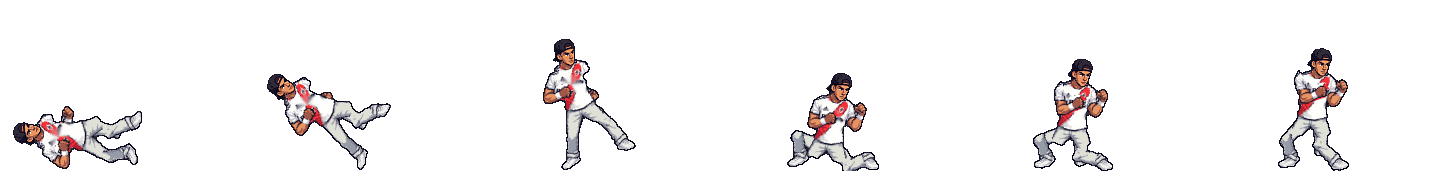
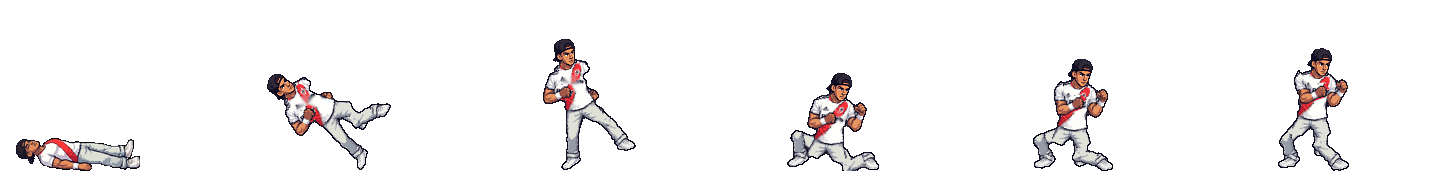
v1.8: cuadros dibujados con SpriteCook (prueba con Denis)
- tools/apply_drawn_frames.py: reemplaza cuadros del rig por poses dibujadas
  (escala sin deformar, pies en el suelo alineados con el cuadro original,
  recorte y articulación que golpea recalculados). Se aplica al final de
  build_sprites.py. Configuración por personaje en dibujados/dibujados.json.
- Denis: golpe, patada, recibir golpe, tirado y victoria dibujados con
  SpriteCook a partir de su ilustración (19 cuadros).
- spritecook-assets.json: IDs de SpriteCook y hash de cada dibujo.

Claude-Session: https://claude.ai/code/session_01C2zfGRbdBH5a13PNy9C8F1

Changed region(s): [[0.0, 0.5966, 0.125, 0.9659]]

diff --git a/tools/apply_drawn_frames.py b/tools/apply_drawn_frames.py
@@ -1,0 +1,111 @@
+"""
+Aplica cuadros DIBUJADOS (no deformados por el rig) sobre las tiras generadas.
+
+Cada personaje puede tener assets/characters/<p>/dibujados/dibujados.json con poses
+dibujadas (p. ej. generadas con SpriteCook a partir de su ilustración). Para cada pose:
+  - "alto" (o "ancho" si "acostado"): tamaño final en px nativos (el personaje de pie mide
+    lo mismo que en sus otras animaciones, sin deformar: misma escala en X e Y),
+  - "reemplaza": {animación: [cuadros]} que pasan a usar ese dibujo,
+  - "golpea" (opcional): articulación que golpea; se recoloca en el punto más adelantado
+    del dibujo para que la hitbox coincida con el puño o el pie.
+El dibujo se escala, se apoya con los pies en el suelo (ancla 112,170) alineado con los pies
+del cuadro que reemplaza, y se actualizan el recorte (bbox) y las articulaciones del meta.
+Se corre solo al final de build_sprites.py; también:  python tools/apply_drawn_frames.py [personaje]
+"""
+import os, sys, json
+import numpy as np
+from PIL import Image
+
+ROOT = os.path.abspath(os.path.join(os.path.dirname(__file__), '..'))
+FW, FH, AX, AY = 240, 176, 112, 170
+
+
+def _fit(img, cfg):
+    a = np.asarray(img.convert('RGBA'))
+    ys, xs = np.where(a[..., 3] > 20)
+    img = img.crop((xs.min(), ys.min(), xs.max() + 1, ys.max() + 1))
+    if cfg.get('acostado'):
+        k = cfg['ancho'] / img.width
+    else:
+        k = cfg['alto'] / img.height
+    w, h = max(1, round(img.width * k)), max(1, round(img.height * k))
+    # reducción con alfa premultiplicado (sin halos) y alfa binario (pixel art nítido)
+    arr = np.asarray(img.convert('RGBA')).astype(np.float32)
+    arr[..., :3] *= arr[..., 3:4] / 255
+    small = np.asarray(Image.fromarray(arr.astype(np.uint8), 'RGBA').resize((w, h), Image.LANCZOS)).astype(np.float32)
+    al = small[..., 3:4]
+    rgb = np.where(al > 1, small[..., :3] * 255 / np.maximum(al, 1), 0)
+    out = np.zeros((h, w, 4), np.uint8)
+    m = al[..., 0] > 110
+    out[m, :3] = np.clip(rgb[m], 0, 255).astype(np.uint8)
+    out[m, 3] = 255
+    return out
+
+
+def _feet_x(a, low_rows=6):
+    ys, xs = np.where(a[..., 3] > 0)
+    if not len(ys):
+        return 0
+    sel = ys >= ys.max() - low_rows
+    return float(xs[sel].mean())
+
+
+def apply(name):
+    d = os.path.join(ROOT, 'assets', 'characters', name)
+    cfgp = os.path.join(d, 'dibujados', 'dibujados.json')
+    if not os.path.exists(cfgp):
+        return 0
+    cfg = json.load(open(cfgp, encoding='utf-8'))
+    metap = os.path.join(d, f'{name}_meta.json')
+    meta = json.load(open(metap, encoding='utf-8'))
+    n = 0
+    for pose, pc in cfg['poses'].items():
+        src = os.path.join(d, 'dibujados', pose + '.png')
+        if not os.path.exists(src):
+            print('  falta', src)
+            continue
+        drawn = _fit(Image.open(src), pc)
+        dh, dw = drawn.shape[:2]
+        for anim, frames in pc['reemplaza'].items():
+            info = meta['animations'][anim]
+            strip = np.array(Image.open(os.path.join(d, info['file'])).convert('RGBA'))
+            for fi in frames:
+                if fi >= info['frames']:
+                    continue
+                cell = strip[:, fi * FW:(fi + 1) * FW]
+                # mismo apoyo horizontal que el cuadro reemplazado
+                fx_old = _feet_x(cell) if cell[..., 3].any() else AX
+                if pc.get('acostado'):
+                    x0b, _, x1b, _ = info['bbox'][fi]
+                    left = int(round((x0b + x1b) / 2 - dw / 2))
+                else:
+                    left = int(round(fx_old - _feet_x(drawn)))
+                left = max(0, min(FW - dw, left))
+                top = AY + 1 - dh                                # pies sobre el suelo
+                top = max(0, top)
+                new = np.zeros((FH, FW, 4), np.uint8)
+                hh = min(dh, FH - top)
+                new[top:top + hh, left:left + dw] = drawn[:hh]
+                strip[:, fi * FW:(fi + 1) * FW] = new
+                ys, xs = np.where(new[..., 3] > 0)
+                info['bbox'][fi] = [int(xs.min()), int(ys.min()), int(xs.max()) + 1, int(ys.max()) + 1]
+                j = info['joints'][fi]
+                if pc.get('golpea'):
+                    # el punto más adelantado del dibujo (puño / pie) pasa a ser la articulación que golpea
+                    xr = xs.max()
+                    yr = float(ys[xs >= xr - 2].mean())
+                    jn = pc['golpea']
+                    j[jn] = [float(xr - 3), round(yr, 1)]
+                    if jn == 'f_an':
+                        j['f_toe'] = [float(xr), round(yr, 1)]
+                n += 1
+            Image.fromarray(strip, 'RGBA').save(os.path.join(d, info['file']))
+    json.dump(meta, open(metap, 'w', encoding='utf-8'))
+    print(f'  {name}: {n} cuadros dibujados aplicados')
+    return n
+
+
+if __name__ == '__main__':
+    chars = sys.argv[1:] or sorted(os.listdir(os.path.join(ROOT, 'assets', 'characters')))
+    for c in chars:
+        apply(c)

diff --git a/tools/build_sprites.py b/tools/build_sprites.py
@@ -164,3 +164,7 @@ def main():
 
 if __name__ == '__main__':
     main()
+    # cuadros dibujados (no deformados) por encima de los generados, si el personaje los tiene
+    import apply_drawn_frames
+    for _c in ([a for a in sys.argv[1:] if a in CHARS] or CHARS):
+        apply_drawn_frames.apply(_c)

diff --git a/README.md b/README.md
@@ -212,6 +212,16 @@ IES10_FIGHTER/
   nombre** en `assets/sounds/` o `assets/music/` (ver `documentation/audio_credits.md`).
 - **Fuente**: *Press Start 2P* (SIL Open Font License).
 
+### Cuadros dibujados (SpriteCook)
+
+Además de los cuadros generados por el rig, un personaje puede tener **poses dibujadas** en
+`assets/characters/<nombre>/dibujados/` (por ejemplo, generadas con SpriteCook a partir de su
+ilustración). `dibujados.json` indica qué cuadros de qué animación reemplaza cada dibujo y su
+tamaño; `tools/apply_drawn_frames.py` los escala sin deformar, los apoya en el suelo, ajusta el
+recorte y pone la hitbox en el puño o el pie. Se aplica solo al regenerar los sprites.
+Hoy los tiene **Denis**: golpe, patada, recibir golpe, tirado en el piso y victoria.
+Los IDs de SpriteCook de cada dibujo están en `spritecook-assets.json`.
+
 ### Inspector de animaciones (debug)
 
 En **PERSONAJES** apretá **F8**: se abre un inspector con cada animación de cada luchador.
